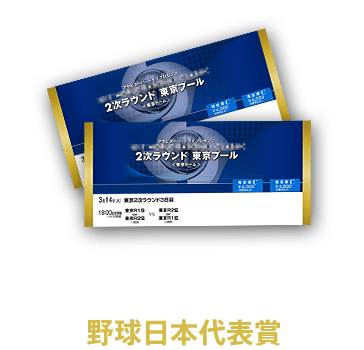
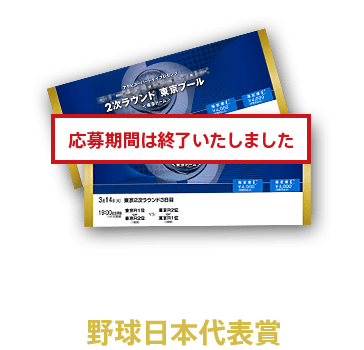
W侍 野球日本代表賞 応募終了 HTML反映 #1626

Changed region(s): [[0.1209, 0.3143, 0.8764, 0.4857]]

diff --git a/_src/app/w_samurai/campaign/index.html b/_src/app/w_samurai/campaign/index.html
@@ -78,7 +78,7 @@
           </section><!-- /.gift__section -->
 
           <section class="gift__section gift--baseball">
-            <h2 class="gift__heading"><img src="/assets/images/w_samurai/campaign/gift-baseball-figure.png" alt="野球日本代表賞"></h2>
+            <h2 class="gift__heading"><img src="/assets/images/w_samurai/campaign/gift-baseball-figure.png" alt="【応募期間は終了いたしました】野球日本代表賞"></h2>
             <p class="gift__text"><strong>野球日本代表観戦ペアチケット</strong><br />
             抽選で15組30名様に<br />
             プレゼント</p>
@@ -91,7 +91,7 @@
             <dd>
               <div class="guidance--prize__body guidance--prize--baseball">
                 <h3 class="heading">野球日本代表賞</h3>
-                <p class="period">応募期間2月20日（月）〜2月28日（火）</p>
+                <p class="period"><em class="attention">応募期間は終了いたしました</em></p>
                 <p class="text"><strong>WBC 2次ラウンドプールE 試合観戦チケット 15組30名様</strong><br />
                 日時：2017年3月14日（火）19時
                 場所：東京ドーム<br />
@@ -110,7 +110,7 @@
           <dl class="guidance__item guidance--term">
             <dt class="guidance__heading">応募期間</dt>
             <dd>
-              <p><strong>野球日本代表賞</strong> 2月20日（月）〜2月28日（火）</p>
+              <p><strong>野球日本代表賞</strong> <em class="attention">応募期間は終了いたしました</em></p>
               <p><strong>サッカー日本代表賞</strong> 2月20日（月）〜3月31日（金）</p>
             </dd>
           </dl><!-- /.guidance__item -->

diff --git a/_src/app/w_samurai/campaign/index_sp.html b/_src/app/w_samurai/campaign/index_sp.html
@@ -84,7 +84,7 @@
           </section><!-- /.gift__section -->
 
           <section class="gift__section gift--baseball">
-            <h2 class="gift__heading"><img src="/assets/sp/images/w_samurai/campaign/gift-baseball-figure.png" alt="野球日本代表賞"></h2>
+            <h2 class="gift__heading"><img src="/assets/sp/images/w_samurai/campaign/gift-baseball-figure.png" alt="【応募期間は終了いたしました】野球日本代表賞"></h2>
             <p class="gift__text"><strong>野球日本代表観戦ペアチケット</strong><br />
             抽選で15組30名様に<br />
             プレゼント</p>
@@ -97,7 +97,7 @@
             <dd>
               <div class="guidance--prize__body guidance--prize--baseball">
                 <h3 class="heading">野球日本代表賞</h3>
-                <p class="period">応募期間2月20日（月）〜2月28日（火）</p>
+                <p class="period"><em class="attention">応募期間は終了いたしました</em></p>
                 <p class="text"><strong>WBC 2次ラウンドプールE 試合観戦チケット 15組30名様</strong><br />
                 日時：2017年3月14日（火）19時
                 場所：東京ドーム<br />
@@ -117,7 +117,7 @@
             <dt class="guidance__heading">応募期間</dt>
             <dd>
               <p><strong>野球日本代表賞</strong><br />
-              2月20日（月）〜2月28日（火）</p>
+              <em class="attention">応募期間は終了いたしました</em></p>
               <p><strong>サッカー日本代表賞</strong><br />
               2月20日（月）〜3月31日（金）</p>
             </dd>

diff --git a/_src/app/assets/sp/css/w_samurai/campaign/module/_index.scss b/_src/app/assets/sp/css/w_samurai/campaign/module/_index.scss
@@ -229,6 +229,11 @@
         margin-top: (10/2)+px;
       }
     }
+
+    .attention {
+      font-weight: bold;
+      color: #cc141d;
+    }
   } // .guidance
 
 

diff --git a/_src/app/assets/css/w_samurai/campaign/module/_index.scss b/_src/app/assets/css/w_samurai/campaign/module/_index.scss
@@ -219,6 +219,11 @@
           }
         }
       }
+
+      .attention {
+        font-weight: bold;
+        color: #cc141d;
+      }
     } // .guidance
 
 

diff --git a/public/w_samurai/campaign/view.php b/public/w_samurai/campaign/view.php
@@ -79,7 +79,7 @@
           </section><!-- /.gift__section -->
 
           <section class="gift__section gift--baseball">
-            <h2 class="gift__heading"><img src="/assets/images/w_samurai/campaign/gift-baseball-figure.png" alt="野球日本代表賞"></h2>
+            <h2 class="gift__heading"><img src="/assets/images/w_samurai/campaign/gift-baseball-figure.png" alt="【応募期間は終了いたしました】野球日本代表賞"></h2>
             <p class="gift__text"><strong>野球日本代表観戦ペアチケット</strong><br />
             抽選で15組30名様に<br />
             プレゼント</p>
@@ -92,7 +92,7 @@
             <dd>
               <div class="guidance--prize__body guidance--prize--baseball">
                 <h3 class="heading">野球日本代表賞</h3>
-                <p class="period">応募期間2月20日（月）〜2月28日（火）</p>
+                <p class="period"><em class="attention">応募期間は終了いたしました</em></p>
                 <p class="text"><strong>WBC 2次ラウンドプールE 試合観戦チケット 15組30名様</strong><br />
                 日時：2017年3月14日（火）19時
                 場所：東京ドーム<br />
@@ -111,7 +111,7 @@
           <dl class="guidance__item guidance--term">
             <dt class="guidance__heading">応募期間</dt>
             <dd>
-              <p><strong>野球日本代表賞</strong> 2月20日（月）〜2月28日（火）</p>
+              <p><strong>野球日本代表賞</strong> <em class="attention">応募期間は終了いたしました</em></p>
               <p><strong>サッカー日本代表賞</strong> 2月20日（月）〜3月31日（金）</p>
             </dd>
           </dl><!-- /.guidance__item -->

diff --git a/public/w_samurai/campaign/view_sp.php b/public/w_samurai/campaign/view_sp.php
@@ -101,7 +101,7 @@
           </section><!-- /.gift__section -->
 
           <section class="gift__section gift--baseball">
-            <h2 class="gift__heading"><img src="/assets/sp/images/w_samurai/campaign/gift-baseball-figure.png" alt="野球日本代表賞"></h2>
+            <h2 class="gift__heading"><img src="/assets/sp/images/w_samurai/campaign/gift-baseball-figure.png" alt="【応募期間は終了いたしました】野球日本代表賞"></h2>
             <p class="gift__text"><strong>野球日本代表観戦ペアチケット</strong><br />
             抽選で15組30名様に<br />
             プレゼント</p>
@@ -114,7 +114,7 @@
             <dd>
               <div class="guidance--prize__body guidance--prize--baseball">
                 <h3 class="heading">野球日本代表賞</h3>
-                <p class="period">応募期間2月20日（月）〜2月28日（火）</p>
+                <p class="period"><em class="attention">応募期間は終了いたしました</em></p>
                 <p class="text"><strong>WBC 2次ラウンドプールE 試合観戦チケット 15組30名様</strong><br />
                 日時：2017年3月14日（火）19時
                 場所：東京ドーム<br />
@@ -134,7 +134,7 @@
             <dt class="guidance__heading">応募期間</dt>
             <dd>
               <p><strong>野球日本代表賞</strong><br />
-              2月20日（月）〜2月28日(火)</p>
+              <em class="attention">応募期間は終了いたしました</em></p>
               <p><strong>サッカー日本代表賞</strong><br />
               2月20日（月）〜3月31日（金）</p>
             </dd>
